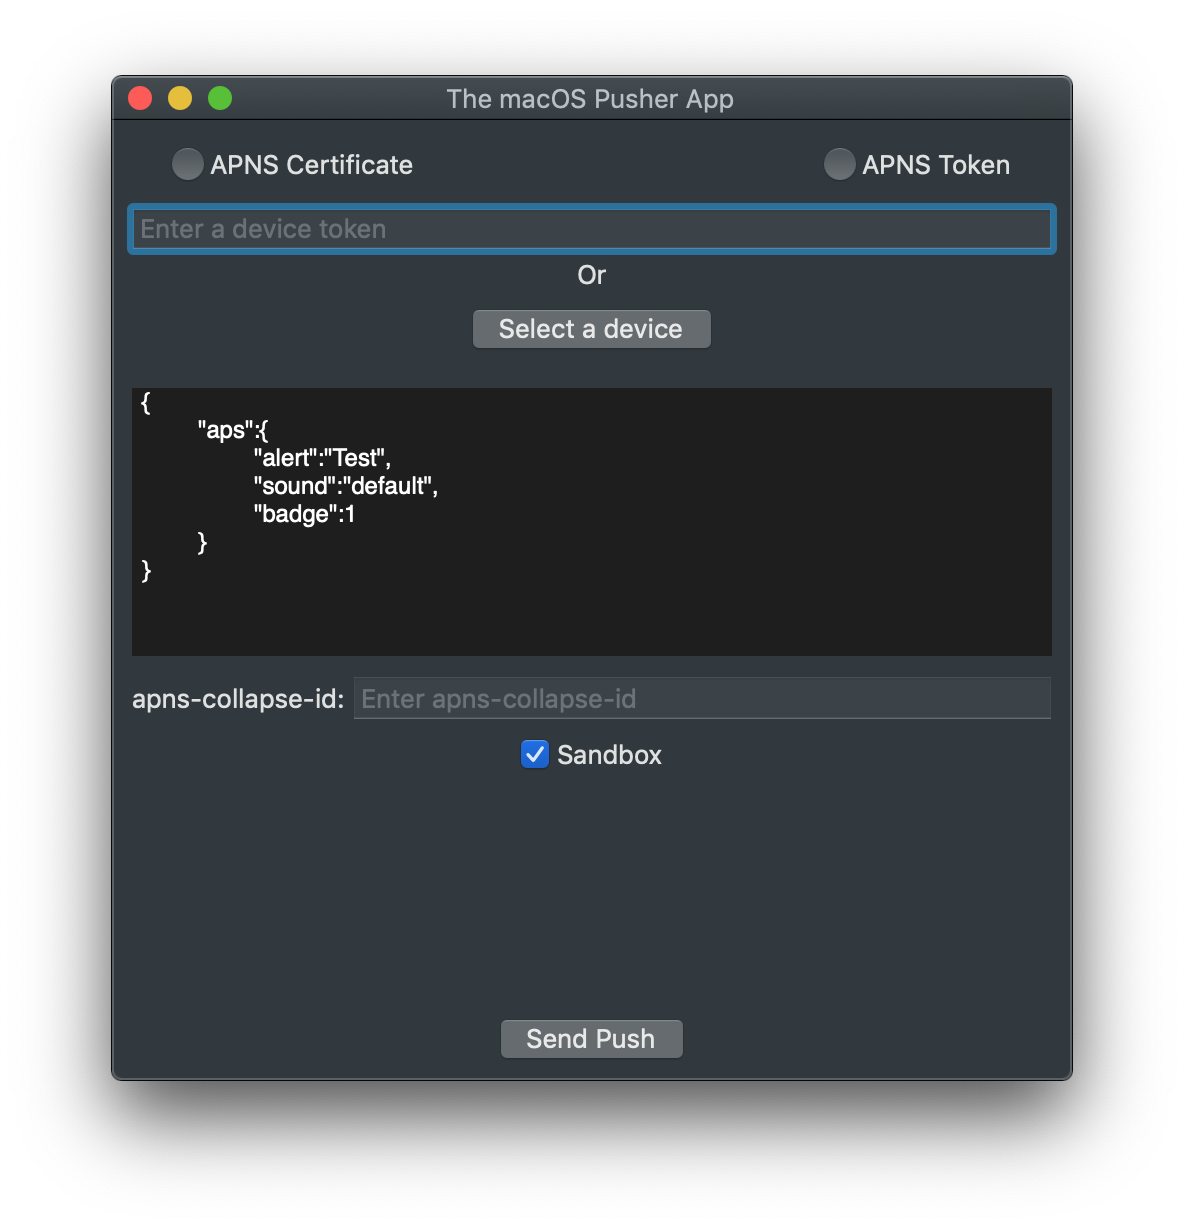
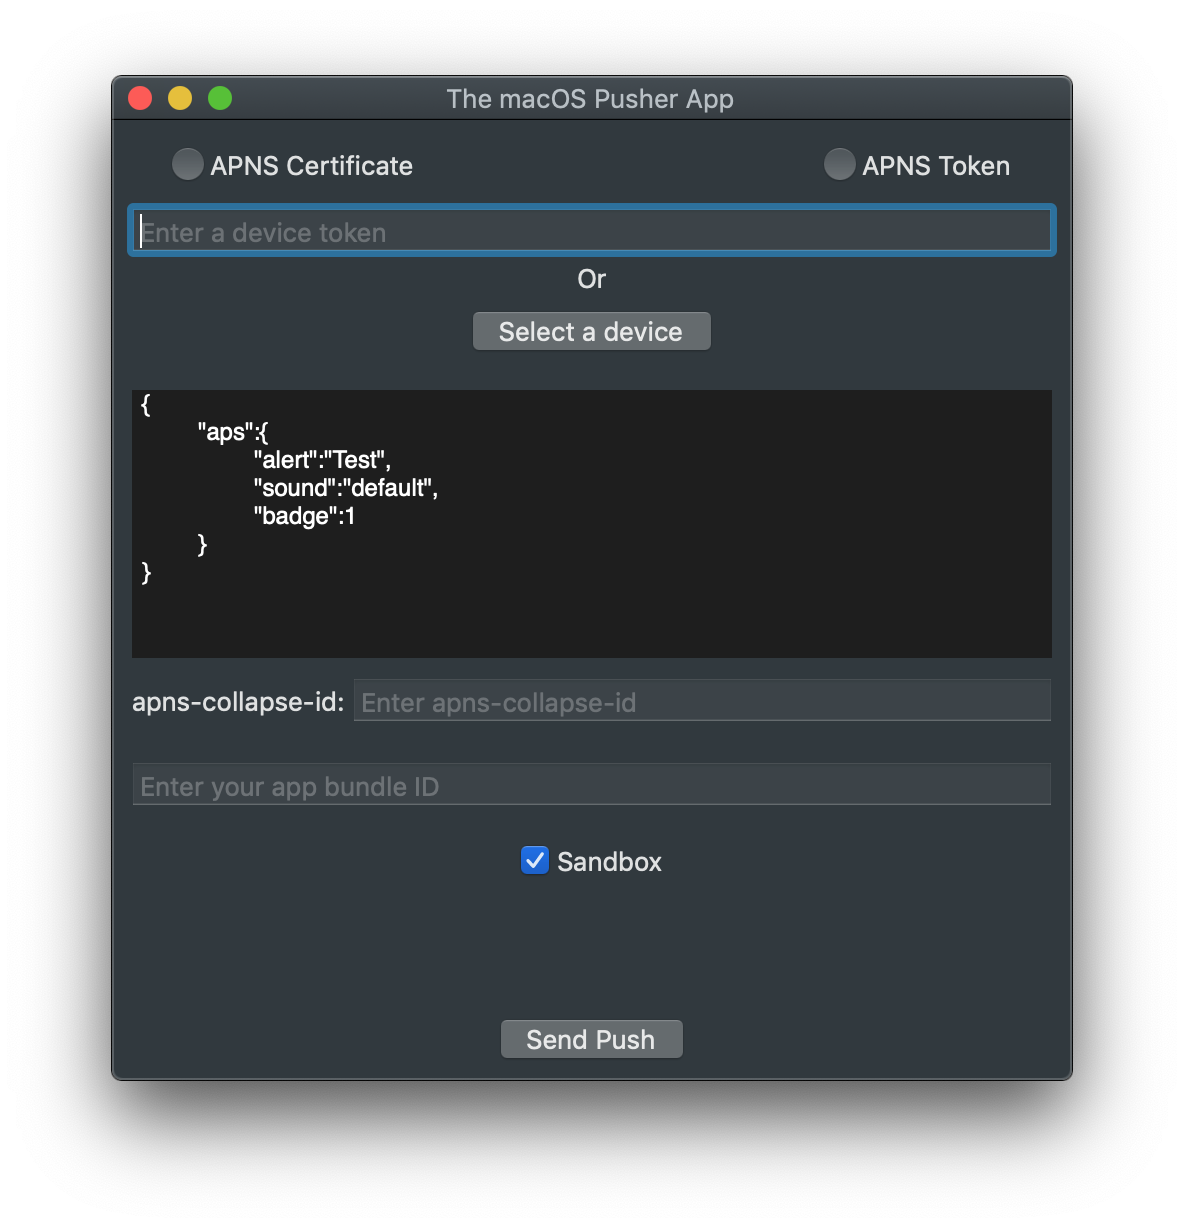
Add the app bundle ID textfield

diff --git a/PusherMainView/PusherMainView/PusherViewController.swift b/PusherMainView/PusherMainView/PusherViewController.swift
@@ -4,6 +4,7 @@ import APNS
 
 public final class PusherViewController: NSViewController {
     @IBOutlet private var deviceTokenTextField: NSTextField!
+    @IBOutlet private var appBundleIDTextField: NSTextField!
     @IBOutlet private var apnsCollapseIdTextField: NSTextField!
     @IBOutlet private var payloadTextView: NSTextView!
     @IBOutlet private var sandBoxCheckBox: NSButton!
@@ -34,7 +35,7 @@ public final class PusherViewController: NSViewController {
         super.viewDidLoad()
         
         deviceTokenTextField.placeholderString = "Enter a device token"
-        
+        appBundleIDTextField.placeholderString = "Enter your app bundle ID"
         apnsCollapseIdTextField.placeholderString = "Enter apns-collapse-id"
         
         payloadTextView.isRichText = false
@@ -82,7 +83,7 @@ public final class PusherViewController: NSViewController {
     @IBAction func sendPush(_ sender: Any) {
         pusherInteractor.push(payloadTextView.string,
                               toToken: deviceTokenTextField.stringValue,
-                              withTopic: "com.rakuten.tech.mobile.pushsample",
+                              withTopic: appBundleIDTextField.stringValue,
                               priority: 10,
                               collapseID: apnsCollapseIdTextField.stringValue,
                               inSandbox: sandBoxCheckBox.state.rawValue == 1) { _ in }
